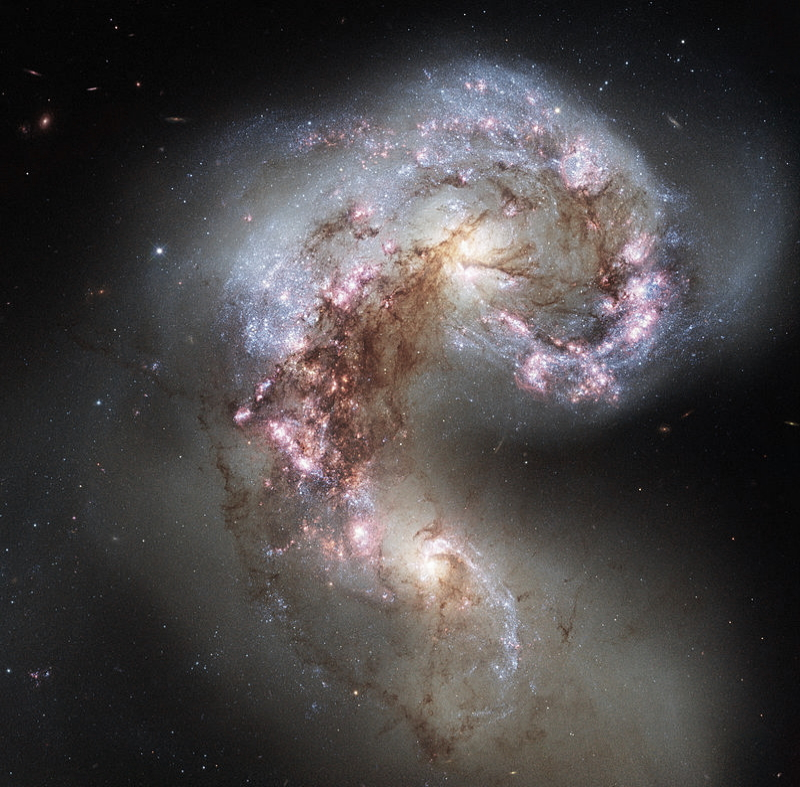
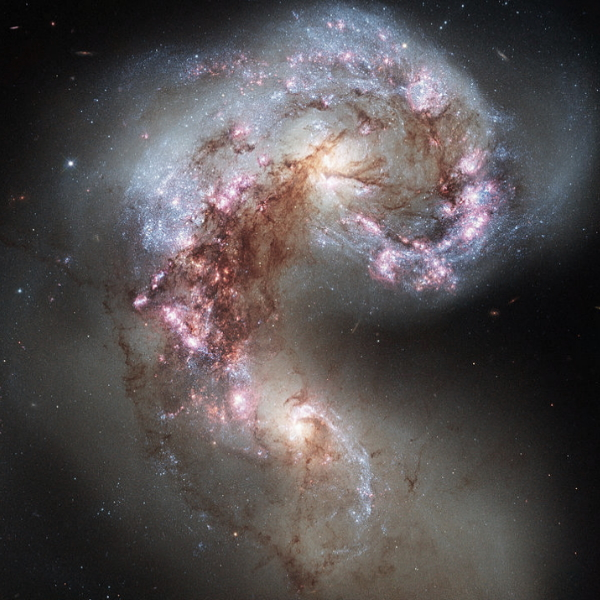
style-footer-index

diff --git a/css/style-footer.css b/css/style-footer.css
@@ -2,52 +2,62 @@
     padding: 0px;
     margin: 0px;
     box-sizing: border-box;
- }
- footer {
+}
+footer {
    display: grid;
    grid-template-columns: 2fr 1fr;
    background-color: #175384;
-   padding: 2.2em;
-   /* margin-top: 3em; */
- }
- footer h3 {
+   padding: .5em;
+}
+footer h3 {
    font-family: 'Alice', serif;
    font-style: normal;
    font-weight: normal;
    color: #DEA01E;
-   font-size: 1.6em;
-   padding: 0.7em;
- }
- footer p {
+   font-size: 2em;
+   padding-left: 0.5em;
+   padding-bottom: .5em;
+   padding-top: 1em;
+}
+footer p {
    font-family: 'Open San', sans-serif;
    font-style: normal;
    font-weight: normal;
-   padding: 1.3em;
+   padding: 1em;
    line-height: 1.8em;
    margin-bottom: 1em;
    color: #ffffff;
- }
- .social-media > a {
+}
+.social-media > a {
    padding: 1em;
    margin-left: 0.3em;
- }
- .right {
+}
+.right {
    display: flex;
    align-items: center;
    justify-content: center;
-   margin: auto 2em auto auto;
- }
- .logo-footer {
+   margin: 2em;
+}
+.logo-footer {
    width: 220px;
    align-items: center;
    justify-content: center;
    margin: auto;
- }
- .logo-footer-small {
+}
+.logo-footer-small {
    display: none;
- }
- /* media-media-media-media-media-media */
- @media only screen and (max-width: 670px) {
+}
+.social-media {
+    width: 330px;
+    align-items: center;
+    justify-content: center;
+    padding-top: 1em;
+    padding-bottom: .2em;
+    margin: 1em;
+    margin-bottom: 1em;
+}
+/* media-media-media-media-media-media */
+@media only screen and (max-width: 670px) {
    footer {
        display: flex;
        flex-direction: column;
@@ -66,13 +76,19 @@
        line-height: 1.8em;
    }
    .social-media {
-       width: 310px;
+       width: 290px;
        align-items: center;
        justify-content: center;
        padding-top: 1em;
-       padding-bottom: 1em;
+       padding-bottom: .2em;
        margin: auto;
        margin-bottom: 1em;
+   }
+   .social-media a {
+        padding: .9em;
+        margin: auto;
+        align-items: center;
+        justify-content: center;
    }
    .left {
        align-items: center;
@@ -90,8 +106,8 @@
    .logo-footer-small {
        display: block;
        width: 220px;
-        align-items: center;
+       align-items: center;
        justify-content: center;
-       margin: 1em auto auto auto;
+       margin: 1em auto 2em auto;
    }
- }
+}

diff --git a/index.html b/index.html
@@ -59,7 +59,7 @@
     <div class="columns">
                                             
     <article class="column">
-        <img src="img/index/galaxy-startpage.jpg" alt="Galaxy" class="pic-scale-column">
+        <img src="img/index/galaxy-use-it.jpg" alt="Galaxy" class="pic-scale-column">
         <div class="text-inside-column">
         <h2>New galaxy</h2><br>
         <p>Flexaria Galaxy Messier(M147) lies at a distance 2.97 million light years from Earth and has a

diff --git a/css/style-index.css b/css/style-index.css
@@ -55,6 +55,7 @@ h2 {
 	padding: 2em;
 }
 
+
 /* Bakgrund till boxinside, blir transparent vid skalning */
 .box-inside-backg1 {
 	background: rgba(73, 110, 145, 0.4)
